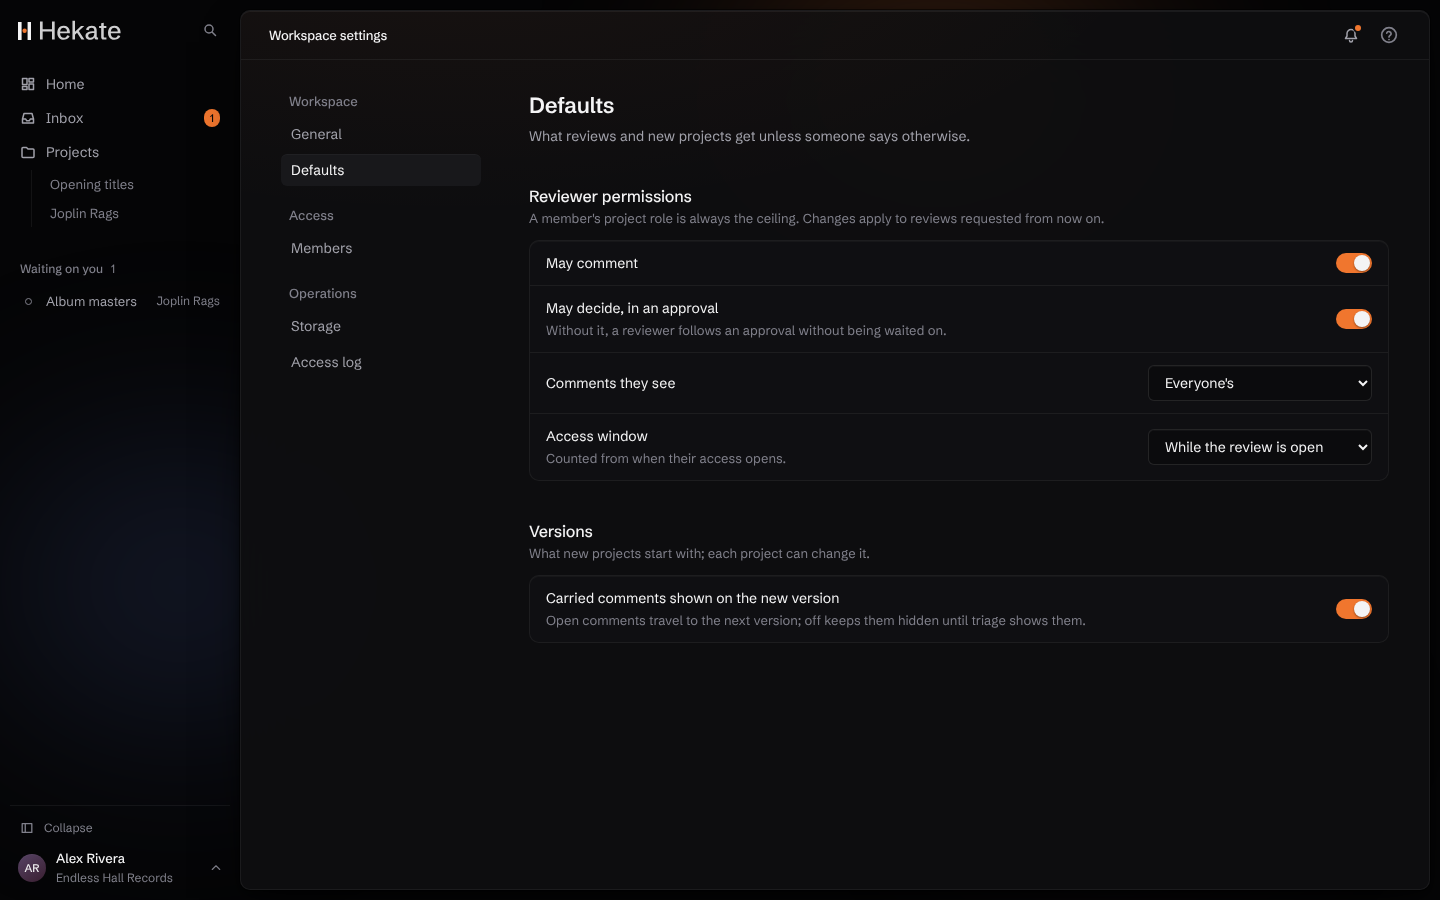
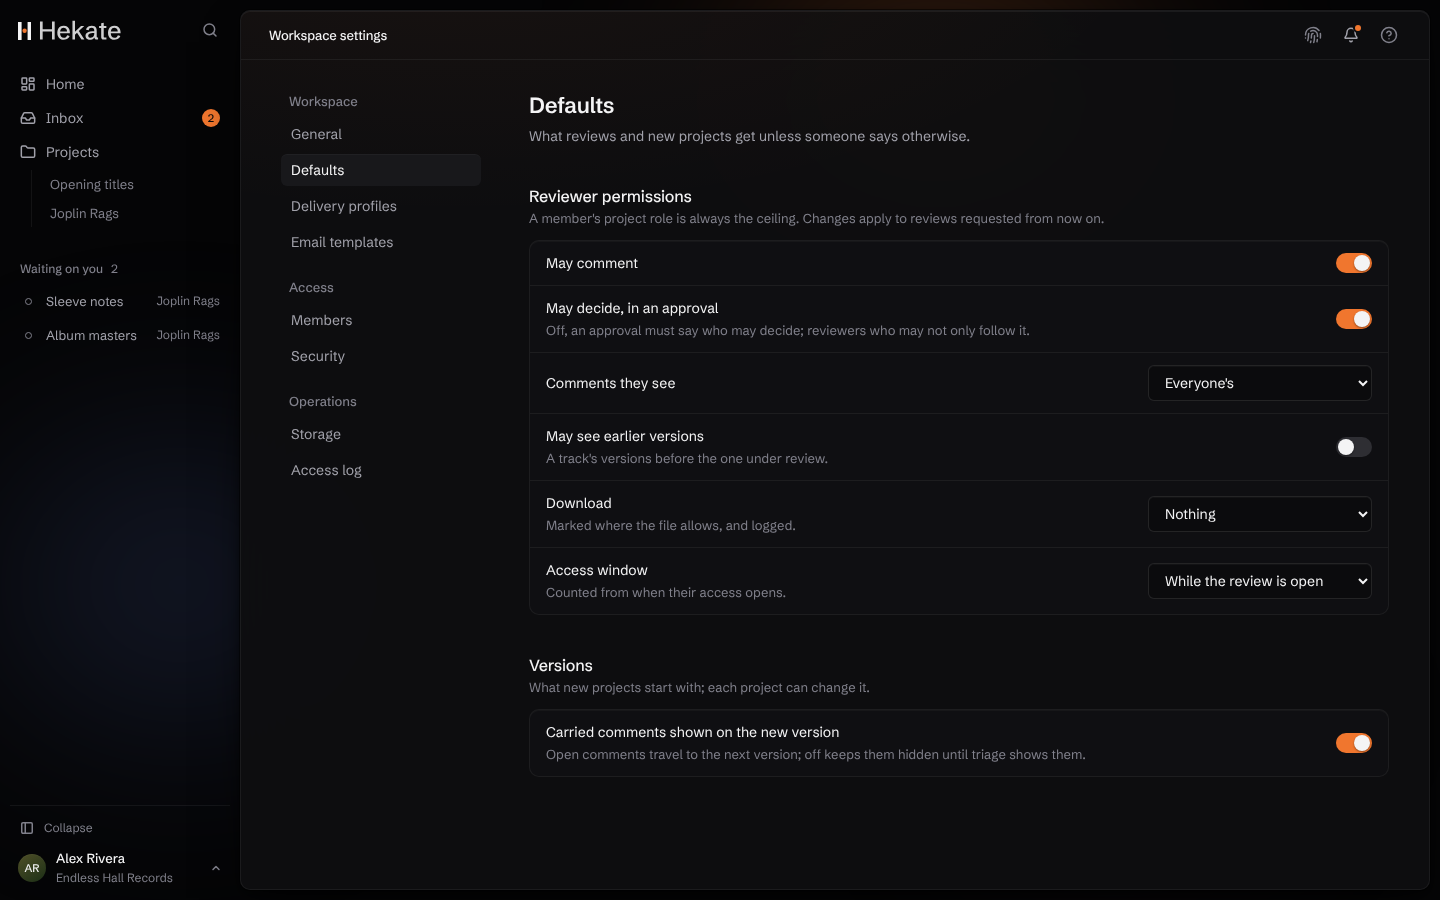
feat: a workspace sets whether reviewers see earlier versions and what they may download (#284)
Two more reviewer defaults under Workspace settings, Defaults, as the
prototype shows: "May see earlier versions" and "Download" (nothing, the
proxy or the original). A review requested from then on grants them unless
it says otherwise; settings stored before read as off and nothing, as
before.

Part of #55.

Claude-Session: https://claude.ai/code/session_015TRj2XJrf2hGBbTKBkRfmp

diff --git a/apps/server/src/app.test.ts b/apps/server/src/app.test.ts
@@ -3006,7 +3006,14 @@ describe.runIf(url)("api", () => {
           emailSubjects: {},
           secondFactor: "off",
           securityKeyForAdmins: false,
-          reviewer: { comment: true, decide: true, comments: "all", windowDays: null },
+          reviewer: {
+            comment: true,
+            decide: true,
+            comments: "all",
+            history: false,
+            download: "none",
+            windowDays: null,
+          },
         });
         expect((await change({ guestLinkDays: 7 }, owner)).status).toBe(400);
         expect((await change({ storageBackend: "spare" }, owner)).status).toBe(400);
@@ -8619,7 +8626,13 @@ describe.runIf(url)("api", () => {
               await settings(
                 {
                   guestLinkDays: 14,
-                  reviewer: { decide: false, comments: "own", windowDays: 30 },
+                  reviewer: {
+                    decide: false,
+                    comments: "own",
+                    history: true,
+                    download: "proxy",
+                    windowDays: 30,
+                  },
                 },
                 s.owner,
               )
@@ -8644,7 +8657,13 @@ describe.runIf(url)("api", () => {
             .where(eq(schema.reviewReviewers.reviewId, review.id));
           expect(granted).toHaveLength(2);
           for (const { permissions } of granted) {
-            expect(permissions).toMatchObject({ comment: true, decide: false, comments: "all" });
+            expect(permissions).toMatchObject({
+              comment: true,
+              decide: false,
+              comments: "all",
+              history: true,
+              download: "proxy",
+            });
             const ends = Date.parse(permissions.expiresAt ?? "");
             expect(ends).toBeGreaterThanOrEqual(before + 30 * day);
             expect(ends).toBeLessThan(Date.now() + 30 * day + 1000);

diff --git a/packages/shared/src/organisation.ts b/packages/shared/src/organisation.ts
@@ -1,5 +1,6 @@
 import { z } from "zod";
 import { locales } from "./account.ts";
+import { downloadLevels } from "./downloads.ts";
 import {
   type EmailSubjects,
   emailSubjects,
@@ -138,6 +139,10 @@ export const workspaceSettingsSchema = z.object({
     comment: z.boolean(),
     decide: z.boolean(),
     comments: z.enum(commentScopes),
+    /** A track's earlier versions as well as the one under review. */
+    history: z.boolean(),
+    /** What they may download; a member's role is the ceiling. */
+    download: z.enum(downloadLevels),
     windowDays: z.literal(accessWindowDays).nullable(),
   }),
 });
@@ -153,7 +158,14 @@ export const defaultWorkspaceSettings: WorkspaceSettings = {
   emailSubjects: {},
   secondFactor: "off",
   securityKeyForAdmins: false,
-  reviewer: { comment: true, decide: true, comments: "all", windowDays: null },
+  reviewer: {
+    comment: true,
+    decide: true,
+    comments: "all",
+    history: false,
+    download: "none",
+    windowDays: null,
+  },
 };
 
 /** A change to some settings; the rest stay. */
@@ -228,6 +240,8 @@ export function workspaceSettingsOf(stored: unknown): WorkspaceSettings {
       comment: pick(reviewer.comment, read(storedReviewer, "comment"), d.reviewer.comment),
       decide: pick(reviewer.decide, read(storedReviewer, "decide"), d.reviewer.decide),
       comments: pick(reviewer.comments, read(storedReviewer, "comments"), d.reviewer.comments),
+      history: pick(reviewer.history, read(storedReviewer, "history"), d.reviewer.history),
+      download: pick(reviewer.download, read(storedReviewer, "download"), d.reviewer.download),
       windowDays: pick(
         reviewer.windowDays,
         read(storedReviewer, "windowDays"),

diff --git a/apps/web/src/routes/workspace-settings.tsx b/apps/web/src/routes/workspace-settings.tsx
@@ -2,6 +2,7 @@ import {
   accessWindowDays,
   type CommentScope,
   type CustomProfile,
+  type DownloadLevel,
   deliveryProfileIds,
   deliveryProfiles,
   formatBytes,
@@ -488,6 +489,25 @@ function Defaults() {
                 {scopeLabel[scope]}
               </option>
             ))}
+          </Select>
+        </Row>
+        <SwitchRow
+          name="May see earlier versions"
+          hint="A track's versions before the one under review."
+          checked={reviewer.history}
+          onChange={(history) => change({ reviewer: { history } })}
+        />
+        <Row name="Download" hint="Marked where the file allows, and logged.">
+          <Select
+            aria-label="Download"
+            className="w-56"
+            disabled={pending}
+            value={reviewer.download}
+            onChange={(e) => change({ reviewer: { download: e.target.value as DownloadLevel } })}
+          >
+            <option value="none">Nothing</option>
+            <option value="proxy">The proxy</option>
+            <option value="original">The original</option>
           </Select>
         </Row>
         <Row name="Access window" hint="Counted from when their access opens.">

diff --git a/packages/shared/src/organisation.test.ts b/packages/shared/src/organisation.test.ts
@@ -22,7 +22,13 @@ describe("workspace settings", () => {
     const read = workspaceSettingsOf({
       guestLinkDays: 14,
       locale: "tlh",
-      reviewer: { decide: false, comments: "everyone", windowDays: 30 },
+      reviewer: {
+        decide: false,
+        comments: "everyone",
+        download: "all",
+        history: true,
+        windowDays: 30,
+      },
       emailSubjects: { invitation: "Join {workspace}", decision: "{nonsense}", stale: "x" },
       deliveryProfile: "vinyl",
       stale: true,
@@ -37,7 +43,14 @@ describe("workspace settings", () => {
       emailSubjects: { invitation: "Join {workspace}" },
       secondFactor: "off",
       securityKeyForAdmins: false,
-      reviewer: { comment: true, decide: false, comments: "all", windowDays: 30 },
+      reviewer: {
+        comment: true,
+        decide: false,
+        comments: "all",
+        history: true,
+        download: "none",
+        windowDays: 30,
+      },
     });
   });
 
